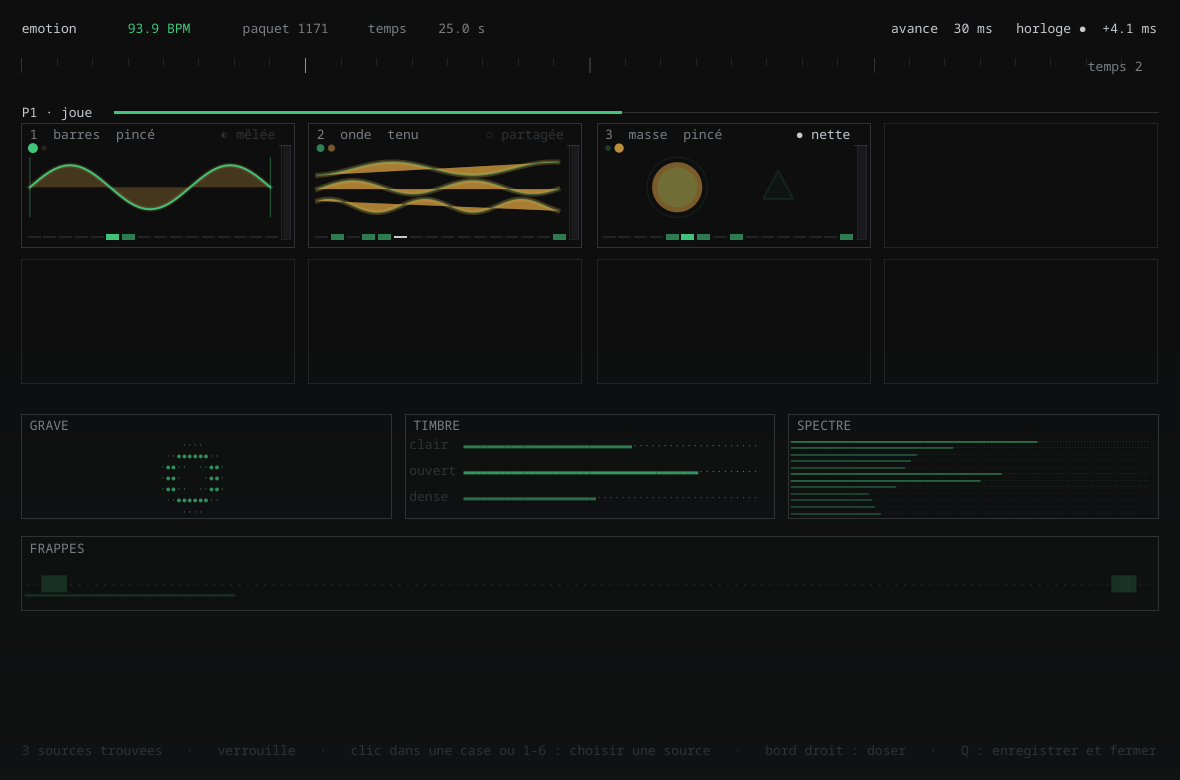
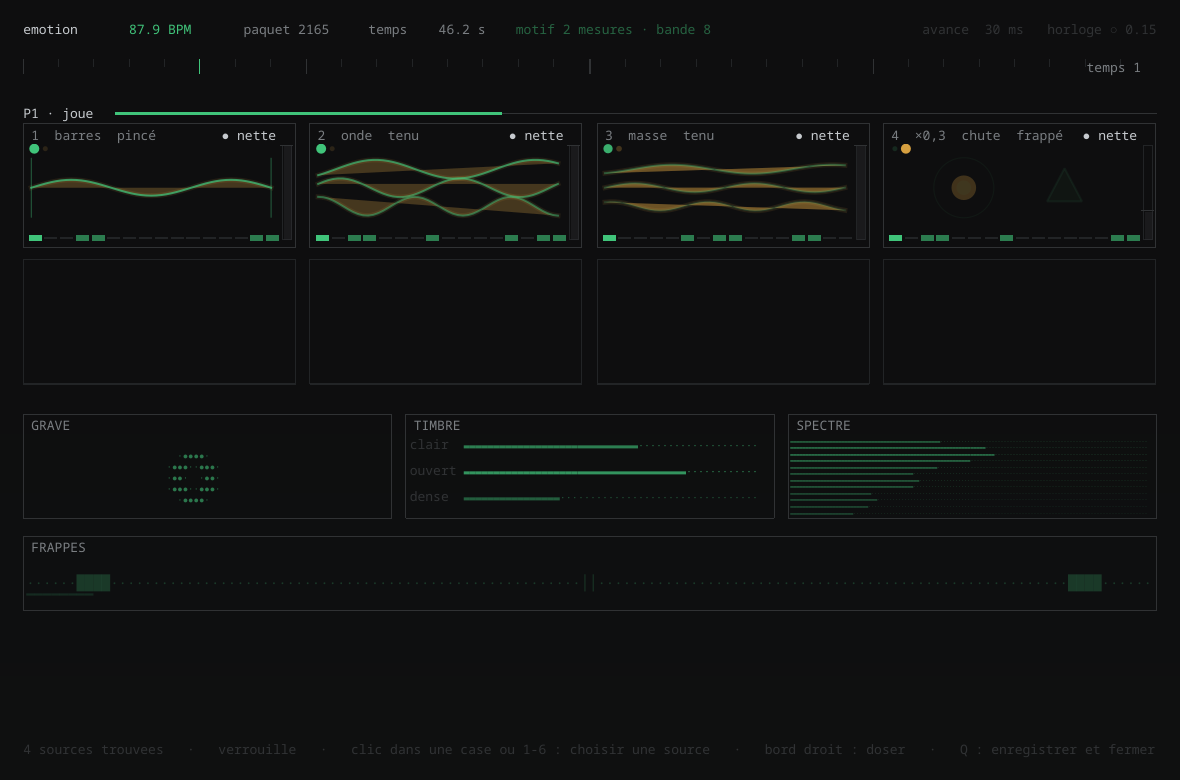
README : les captures du vrai passage, le kick baisse au fader qui suit l'instrument ; le gain est un mot entier dans le titre

diff --git a/outils/fenetre.py b/outils/fenetre.py
@@ -1226,12 +1226,13 @@ class Mur(QWidget):
         # encore, puisqu'il est a cheval sur les deux.
         if s["platine"] == 3:
             gauche += "  P1+P2"
-        if self.gains[r] < 0.999:
-            gauche += f"  ×{self.gains[r]:.1f}".replace(".", ",")
+        # LE GAIN DU FADER, un mot a part : dans une case etroite il passe avant le nom de
+        # la forme, et il tombe entier ou pas du tout — « ×0, » ne dit rien.
+        gain = f"×{self.gains[r]:.1f}".replace(".", ",") if self.gains[r] < 0.999 else ""
         # LE DEGRE JOUE, quand la fiche donne la gamme : I la tonique, V la quinte, · hors
         # gamme. C'est ce qui survit a une transition Camelot.
         degre = DEGRES[s["degre"]] if s["degre"] < len(DEGRES) else ""
-        titre = "  ".join(x for x in (gauche, nom, nature, degre) if x)
+        titre = "  ".join(x for x in (gauche, gain, nom, nature, degre) if x)
 
         # UNE SOURCE RETIREE SE DIT, ELLE NE DISPARAIT PAS.
         # « Quand le kick est en retrait pendant un moment, on est censé le savoir. »
@@ -1285,7 +1286,7 @@ class Mur(QWidget):
         # On lache d'abord les mots de la fin — degre, nature, forme — et le rang avec sa
         # platine reste entier : « 5 P1 » tronque de « 5 P1+P2 » dirait le contraire de
         # ce qu'il faut dire. Si meme cela ne tient pas, c'est le verdict qui cede.
-        mots = [x for x in (gauche, nom, nature, degre) if x]
+        mots = [x for x in (gauche, gain, nom, nature, degre) if x]
         if absente:
             mots.append(f"⌁ absent {max(1, math.ceil(s['retrait']))} s")
         while len(mots) > 1 and fm.horizontalAdvance("  ".join(mots)) > place:

diff --git a/README.md b/README.md
@@ -204,17 +204,36 @@ il recevra huit cases signées et composera, il ne mélangera pas deux images.
 <table>
 <tr>
 <td width="50%"><img src="docs/images/fondu-A.png" alt="A seul"><br>
-<sub>A seul : la platine 1 prend toute la largeur.</sub></td>
+<sub>Passepartout seul, mesure 16 : la platine 1 prend toute la largeur, trois gabarits et le reste. Le DJ a baissé le kick (case 4, « ×0,3 ») : la boule est petite, et le son l'est aussi.</sub></td>
 <td width="50%"><img src="docs/images/fondu-accueil.png" alt="L'accueil, 0,2 s après"><br>
-<sub>0,2 s après l'accueil : la scène de P2 s'ouvre, le reste passe à cheval.</sub></td>
+<sub>0,2 s après l'accueil de Codex : la scène de P2 s'ouvre, le reste passe à cheval — en case 8, et son fader l'a suivi.</sub></td>
 </tr>
 <tr>
-<td><img src="docs/images/fondu-mi.png" alt="Mi-fondu"><br>
-<sub>Mi-fondu : deux scènes, deux cases par disque, le reste entre les deux ; la barre de P1 baisse, celle de P2 monte.</sub></td>
+<td><img src="docs/images/fondu-mi.png" alt="Pendant le bass swap"><br>
+<sub>Mesure 41, le bass swap commence : trois cases de A, quatre de B, le reste entre les deux, le pitch de B à −3 %.</sub></td>
 <td><img src="docs/images/fondu-B.png" alt="B seul"><br>
-<sub>B seul : la scène de P1 s'est fermée, P2 est restée à droite.</sub></td>
+<sub>Codex seul : la scène de P1 s'est fermée, P2 est restée à droite, le kick est en case 5 et toujours à ×0,3.</sub></td>
 </tr>
 </table>
+
+**Le fondu rejoué s'entend sous les faders, et l'image suit la main.** Le rejeu n'écrit que
+des paquets ; le son était `paplay` sur le mélange, et les faders de case ne faisaient rien.
+Maintenant la sonde exporte les gabarits du master **à chaque phase** du passage (A seul,
+les deux, B seul), `relais.py` extrait le son de chaque case avec les gabarits de sa phase et
+coud une piste par case (vingt millisecondes de creux aux coutures, somme égale au mélange à
+24 dB), et `fondu.sh` les fait jouer par la fenêtre sous ses faders. Le fader agit aussi sur
+l'image : le niveau dessiné est le niveau publié fois le gain, la case l'écrit (« ×0,3 »).
+Rien ne réanalyse ; c'est un réglage de ce qui affiche, comme l'avance.
+
+**Et le fader suit l'instrument, pas le numéro de la case.** À l'accueil, les rangs changent
+de sens : le reste passe de la case 4 à la case 8, la case 4 devient le premier gabarit de
+B. Le DJ avait baissé le kick ; à l'arrivée de B, son fader baissait un synthé et le kick
+revenait à fond — « ça reset la piste A ». Les gains sont reportés par identité (le reste
+vers le reste, la i-ème case d'une platine vers la i-ème case de la même platine), vérifié
+sur le passage enregistré : 0,3 en case 4 avant, en case 8 pendant, en case 5 après. C'est une
+règle pour le rendu final aussi : **un numéro de case n'est pas une identité**, et suivre un
+instrument à travers un passage demandera soit un identifiant stable dans le paquet, soit ce
+report côté rendu.
 
 **Puis le passage a été refait comme le DJ le fait, et le verdict a changé.** Le fondu
 linéaire de vingt secondes n'est pas un passage vinyle. `outils/relais.py` fabrique désormais
@@ -247,11 +266,10 @@ sonde rend ce qu'il devinerait) et sature à 0,9 vers la mesure 31, quand B est 
 basses et que A joue encore à fond pour vingt-six mesures. La présence de B n'est pas
 l'absence de A. Le retrait doit être piloté par autre chose.
 
-Ces images sortent de `python3 outils/fondu_images.py <fondu.pak> <dossier>` : le fondu
-enregistré est rejoué hors écran, paquet par paquet, et huit instants sont rendus — A seul,
-l'accueil et ses suites, la mi-fondu, le retrait et ses suites, B seul. Sur Dead Internet
-Theory → Glyph Chamber, l'ouverture de P2 passe de 0,05 à 0,42 en 0,2 s et à 0,96 en 1,3 s ;
-au retrait, celle de P1 tombe de 0,95 à 0,52 en 0,25 s, puis à zéro.
+`python3 outils/fondu_images.py <fondu.pak> <dossier>` rend huit instants d'un fondu enregistré
+hors écran, paquet par paquet — A seul, l'accueil et ses suites, la mi-fondu, le retrait et
+ses suites, B seul. L'ouverture de P2 passe de 0,05 à 0,42 en 0,2 s et à 0,96 en 1,3 s ; au
+retrait, celle de P1 tombe de 0,95 à 0,52 en 0,25 s, puis à zéro.
 
 **Et le verrou a deux vitesses.** « Après deux ou trois boom-tchak on a déjà l'info sur le
 BPM, et le boom-tchak ne va pas changer. » Le motif du reste tenu sur quatre mesures
